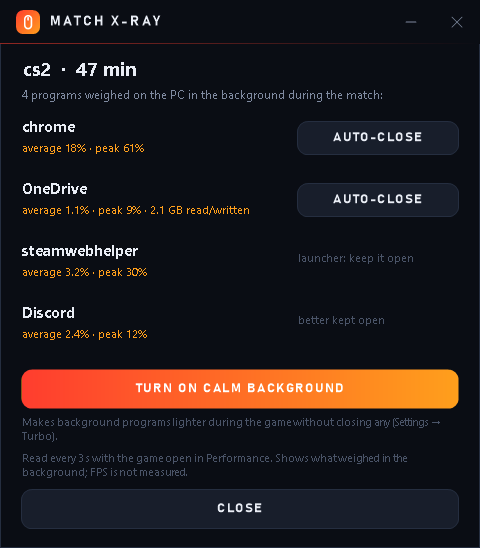
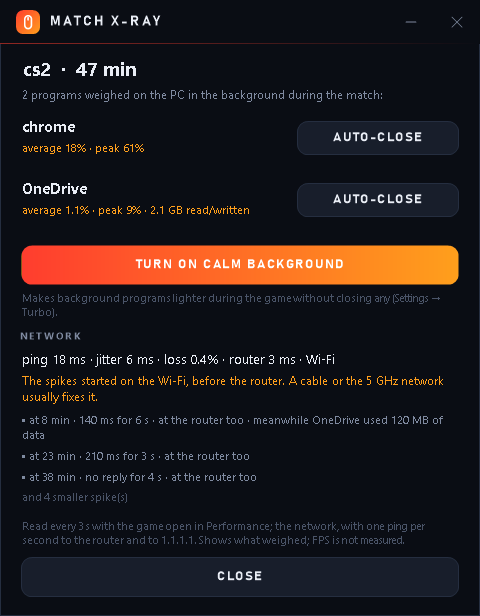
Site para a 1.7.0
Raio-X da rede e DPI real na página; a garantia de telemetria passa a dizer que, na partida, o app mede o ping; captura nova do relatório com a seção de rede (dados inventados); instalador de ~280 KB.

diff --git a/index.html b/index.html
@@ -60,7 +60,7 @@
               <span data-i18n="cta.star">Dar estrela no GitHub</span>
             </a>
           </div>
-          <p class="fineprint"><span data-i18n="hero.fine">Instalador de ~270 KB · só para o seu usuário · atualiza sozinho</span><span class="version" id="version"></span></p>
+          <p class="fineprint"><span data-i18n="hero.fine">Instalador de ~280 KB · só para o seu usuário · atualiza sozinho</span><span class="version" id="version"></span></p>
         </div>
         <div class="hero-shots" aria-hidden="true">
           <img class="shot shot-back" src="img/main-daily-pt.png" data-src-pt="img/main-daily-pt.png" data-src-en="img/main-daily-en.png" alt="" width="480" height="724">
@@ -74,7 +74,7 @@
       <div class="wrap trust-inner">
         <div class="trust-item"><strong data-i18n="trust.1t">Sem administrador</strong><span data-i18n="trust.1d">Instala e roda só no seu usuário.</span></div>
         <div class="trust-item"><strong data-i18n="trust.2t">Desfaz tudo</strong><span data-i18n="trust.2d">Ao sair do Performance, fechar o app ou desligar o PC.</span></div>
-        <div class="trust-item"><strong data-i18n="trust.3t">Sem telemetria</strong><span data-i18n="trust.3d">Só consulta a página de versões do GitHub.</span></div>
+        <div class="trust-item"><strong data-i18n="trust.3t">Sem telemetria</strong><span data-i18n="trust.3d">Só fala com o GitHub, para ver versões, e na partida mede o ping.</span></div>
         <div class="trust-item"><strong data-i18n="trust.4t">Código aberto</strong><span data-i18n="trust.4d">Cada versão sai do GitHub com o SHA-256 publicado.</span></div>
       </div>
     </section>
@@ -122,12 +122,12 @@
           <article class="feature">
             <span class="ficon" aria-hidden="true"><svg viewBox="0 0 24 24"><circle cx="12" cy="12" r="8"/><path d="M12 8v4l3 2"/></svg></span>
             <h3 data-i18n="feat.xray.t">Raio-X da partida</h3>
-            <p data-i18n="feat.xray.d">Ao fechar o jogo, mostra quem mais pesou em segundo plano e resolve num clique: fechar ao jogar ou acalmar.</p>
+            <p data-i18n="feat.xray.d">Ao fechar o jogo, mostra quem mais pesou e como estava a rede, e resolve num clique: fechar ao jogar ou acalmar.</p>
           </article>
           <article class="feature">
             <span class="ficon" aria-hidden="true"><svg viewBox="0 0 24 24"><circle cx="12" cy="12" r="8"/><circle cx="12" cy="12" r="3"/><path d="M12 2v4M12 18v4M2 12h4M18 12h4"/></svg></span>
-            <h3 data-i18n="feat.aim.t">Teste de mira e DPI</h3>
-            <p data-i18n="feat.aim.d">20 segundos de alvos. Mede se você passa do alvo, se para antes e quantas correções faz, e sugere o DPI.</p>
+            <h3 data-i18n="feat.aim.t">Mira e DPI real</h3>
+            <p data-i18n="feat.aim.d">20 segundos de alvos sugerem o DPI. Com uma régua, o app mede o DPI que o sensor entrega de verdade.</p>
           </article>
           <article class="feature">
             <span class="ficon" aria-hidden="true"><svg viewBox="0 0 24 24"><path d="M4 17l6-6 4 4 6-8"/><path d="M15 7h5v5"/></svg></span>
@@ -163,11 +163,11 @@
       <div class="wrap spot">
         <div class="spot-text">
           <p class="kicker" data-i18n="spot1.k">Raio-X da partida</p>
-          <h2 data-i18n="spot1.t">Descubra quem rouba o seu PC durante o jogo.</h2>
-          <p data-i18n="spot1.d">Enquanto o jogo está aberto, o app anota a cada 3 segundos quanto processador e quantos dados cada programa em segundo plano usou. No fim, um aviso mostra os culpados (chrome com pico de 61%, OneDrive com 2,1 GB) e o que fazer com cada um.</p>
-          <p class="note" data-i18n="spot1.n">Só lê, sem administrador. Mede quem pesou, não o FPS.</p>
+          <h2 data-i18n="spot1.t">Descubra quem rouba o seu PC e a sua rede durante o jogo.</h2>
+          <p data-i18n="spot1.d">Enquanto o jogo está aberto, o app anota a cada 3 segundos quanto processador e quantos dados cada programa em segundo plano usou, e mede o ping até o roteador e até a internet a cada segundo. No fim, um aviso mostra os culpados (chrome com pico de 61%, OneDrive com 2,1 GB), os picos de ping e se vieram do Wi-Fi ou da internet.</p>
+          <p class="note" data-i18n="spot1.n">Só lê, sem administrador. Mede quem pesou e a rede, não o FPS.</p>
         </div>
-        <img class="spot-shot" src="img/report-pt.png" data-src-pt="img/report-pt.png" data-src-en="img/report-en.png" alt="Tela do Raio-X da partida" data-alt-en="Match X-ray screen" width="480" height="548" loading="lazy">
+        <img class="spot-shot" src="img/report-pt.png" data-src-pt="img/report-pt.png" data-src-en="img/report-en.png" alt="Tela do Raio-X da partida" data-alt-en="Match X-ray screen" width="480" height="616" loading="lazy">
       </div>
       <div class="wrap spot spot-rev">
         <div class="spot-text">

diff --git a/main.js b/main.js
@@ -13,13 +13,13 @@
     "hero.lead": "MouseModes switches your mouse, power and Windows between Performance and Daily, by itself when a game opens, and undoes it all when the game closes. No admin rights, no telemetry, no miracle tweaks.",
     "cta.download": "Download for Windows",
     "cta.star": "Star it on GitHub",
-    "hero.fine": "~270 KB installer · for your user only · updates by itself",
+    "hero.fine": "~280 KB installer · for your user only · updates by itself",
     "trust.1t": "No admin rights",
     "trust.1d": "Installs and runs for your user only.",
     "trust.2t": "Undoes everything",
     "trust.2d": "When leaving Performance, closing the app or shutting down.",
     "trust.3t": "No telemetry",
-    "trust.3d": "It only checks the GitHub releases page.",
+    "trust.3d": "It only talks to GitHub, to check versions, and measures ping during a match.",
     "trust.4t": "Open source",
     "trust.4d": "Every version comes from GitHub with its SHA-256 published.",
     "modes.title": "Two modes. Switch in one click, by hotkey or automatically.",
@@ -39,9 +39,9 @@
     "feat.calm.t": "Calm background",
     "feat.calm.d": "Instead of closing them, keeps the browser, Steam and OneDrive at low priority and in efficiency mode. On hybrid Intel CPUs, it moves them to the E-cores and leaves the P-cores for the game.",
     "feat.xray.t": "Match X-ray",
-    "feat.xray.d": "When the game closes, it shows what weighed the most in the background and fixes it in one click: auto-close or calm it.",
-    "feat.aim.t": "Aim and DPI test",
-    "feat.aim.d": "20 seconds of targets. It measures overshoot, undershoot and corrections, and suggests a DPI.",
+    "feat.xray.d": "When the game closes, it shows what weighed the most and how the network was, and fixes it in one click: auto-close or calm it.",
+    "feat.aim.t": "Aim and real DPI",
+    "feat.aim.d": "20 seconds of targets suggest a DPI. With a ruler, the app measures the DPI your sensor really delivers.",
     "feat.sens.t": "Sensitivity converter",
     "feat.sens.d": "The same aim (cm/360) in CS2, Apex, Valorant, Overwatch 2 and Call of Duty, or at another DPI.",
     "feat.poll.t": "Polling rate and clicks",
@@ -53,9 +53,9 @@
     "feat.update.t": "Updates by itself",
     "feat.update.d": "Downloads the new version from GitHub, checks the SHA-256 and installs it outside games, keeping your settings.",
     "spot1.k": "Match X-ray",
-    "spot1.t": "Find out what steals your PC during a game.",
-    "spot1.d": "While the game is open, the app notes every 3 seconds how much CPU and data each background program used. At the end, a notice shows the culprits (chrome peaking at 61%, OneDrive with 2.1 GB) and what to do with each one.",
-    "spot1.n": "It only reads, without admin rights. It measures what weighed, not FPS.",
+    "spot1.t": "Find out what steals your PC and your network during a game.",
+    "spot1.d": "While the game is open, the app notes every 3 seconds how much CPU and data each background program used, and measures ping to the router and to the internet every second. At the end, a notice shows the culprits (chrome peaking at 61%, OneDrive with 2.1 GB), the ping spikes and whether they came from the Wi-Fi or the internet.",
+    "spot1.n": "It only reads, without admin rights. It measures what weighed and the network, not FPS.",
     "spot2.k": "Turbo",
     "spot2.t": "Only in Performance, and everything comes back.",
     "spot2.d": "High priority for the game, Windows key blocked with the game in front, no Sticky Keys prompt, silenced notifications and calm background. If the app crashes midway, it undoes it when it opens again.",
